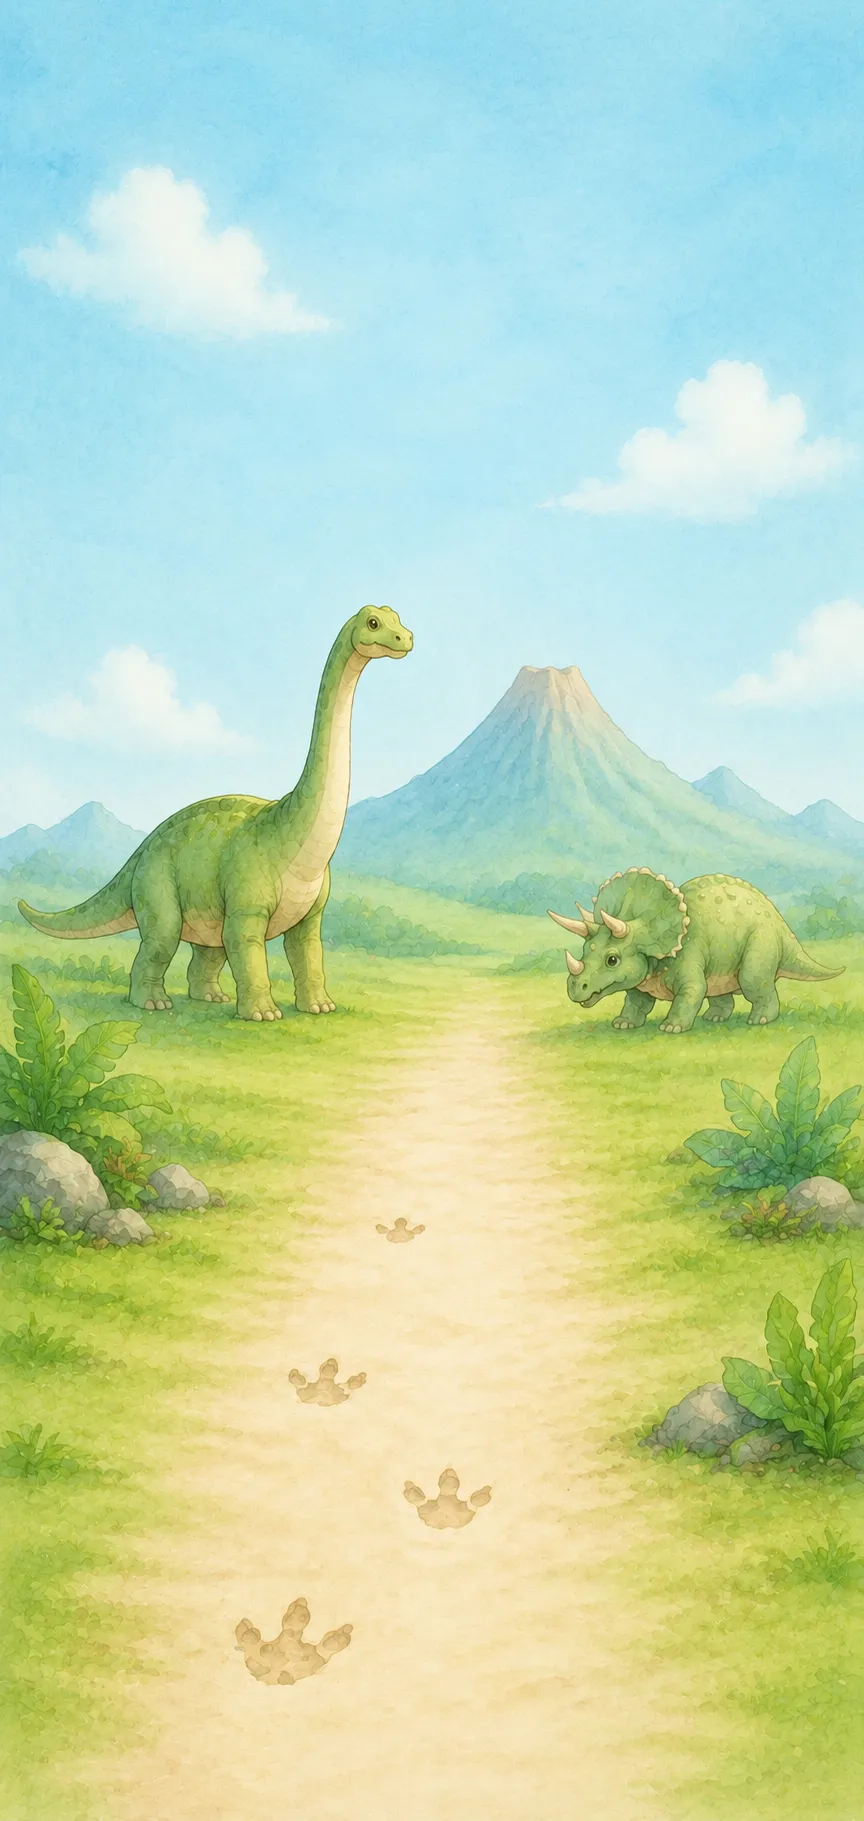
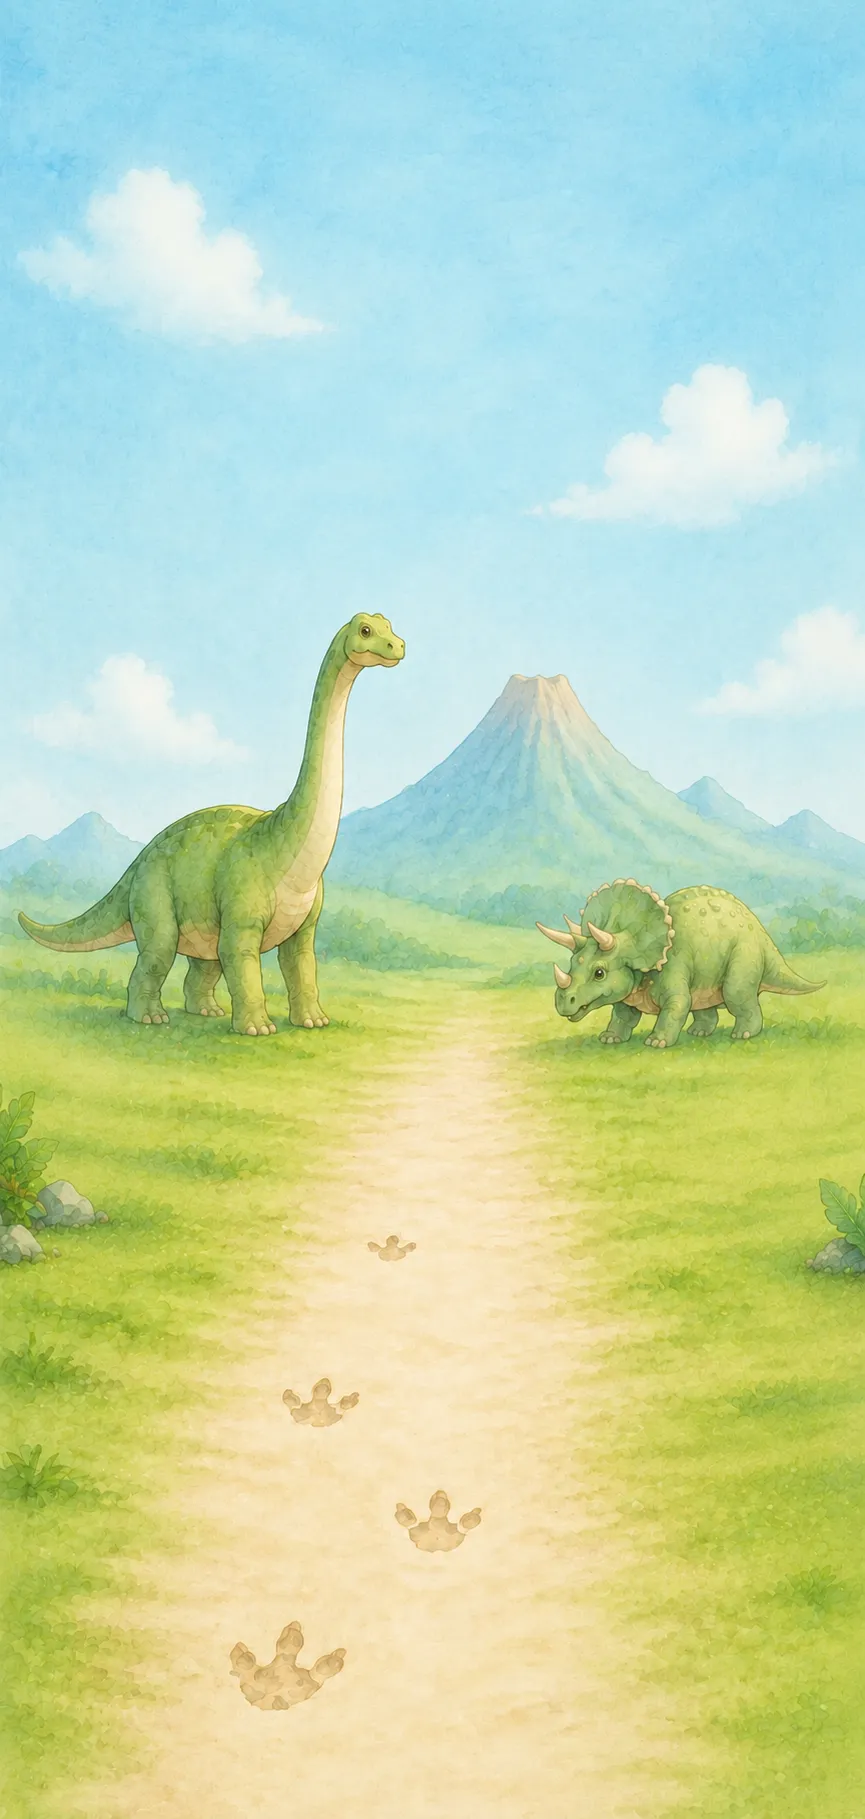
공룡 섬 원화 v2 로 교체
public/assets/stage-bg-dino.webp   webp q80 · 84KB (v1 95KB)
  art-src/bg-dino-v2-src.webp        webp q92 · 224KB

865×1819 = 1:2.10 — 무대 칸(1:2.09)과 거의 같아 잘림이 없다.
v1과 구도는 같고 앞쪽 바위·수풀이 빠져 모랫길이 트였다. 하늘·초원도 더 맑아졌다.
캐릭터가 서는 아래쪽이 비워져 인물이 배경에 묻히지 않는다.
톤 보정 없이 받은 그대로.

규칙 6 — 구버전 정리
· public/assets 는 같은 이름으로 덮어썼다
· art-src/bg-dino-v1-src.webp 삭제, README 의 v1 행도 v2 로 교체

장식(🥚 🍃 🦴)·tint(연한 하늘색 0.12)·darkStage(끔)는 그대로 둔다 —
구도와 하늘 밝기가 같아 다시 맞출 이유가 없다.

화면 확인 (390×844): 캐릭터가 트인 모랫길 위에 서고, 문구가 하늘 위에서
진한 색으로 잘 읽힌다. 빌드 통과.

Claude-Session: https://claude.ai/code/session_018maNuYqDfFyRSe9uKpZhPR

diff --git a/art-src/README.md b/art-src/README.md
@@ -229,4 +229,4 @@ getBoundingClientRect로 재서 정한다. 2026-08-05 점검에서 이 기준을
 | camp-bag-v2-src.webp | 캐릭터 탭 가방 카드 '빈 틀' v2 (1260×860 = 비율 1.465, 투명 = 표시 359px의 3.5배). 세로는 그대로 두고 가로만 넓힌 판 — 종이면이 넓어져 "👑 Lv.20 전설의 탐험가"가 한 줄에 들어간다. 안쪽 종이면 x 9.9~90.0% · y 24.1~86.7%(실측)에 레벨·진행막대·코인/XP를 앱이 그린다 — 값이 매일 바뀌므로 그림에 넣지 않는다. 좁은 v1(1000×862)은 규칙 6에 따라 삭제 | camp/bag.webp |
 | camp-{deco,item,box,pet,book,title,streak,history}-v2-src.webp | 캐릭터 탭 격자 아이콘 **8종 전부** (490×490 정사각 = 표시 138px의 3.5배, 받침 없이 캔버스를 꽉 채운 판). 앱이 정사각 칸에 objectFit:contain 으로 넣으므로 여덟 칸의 무게가 저절로 맞는다. 그루터기 붙은 v1은 규칙 6에 따라 삭제 | camp/st-*.webp |
 | bg-deepsea-v3-src.webp | 꾸미기 배경 '별빛 심해' 원화 v3 (868×1812 = 1:2.09 — 무대 칸 비율과 정확히 같아 한 픽셀도 안 잘린다). v2(887×1774)와 구도는 같고 선이 또렷해지고 고래·아치가 커진 판. 받은 그대로 톤 보정 없음. art-src 는 q92(381KB), 배포본은 q80(177KB) | stage-bg-deepsea.webp |
-| bg-dino-v1-src.webp | 꾸미기 배경 '공룡 섬' 원화 v1 (864×1821 = 1:2.11 — 무대 칸 1:2.09 와 거의 같다). 초원 + 화산 + 브라키오사우루스·트리케라톱스 + 발자국 난 모랫길. 받은 그대로 톤 보정 없음. art-src 는 q92(244KB), 배포본은 q80(95KB) | stage-bg-dino.webp |
+| bg-dino-v2-src.webp | 꾸미기 배경 '공룡 섬' 원화 v2 (865×1819 = 1:2.10 — 무대 칸 1:2.09 와 거의 같다). v1과 구도는 같고 앞쪽 바위·수풀이 빠져 모랫길이 트이고, 하늘과 초원이 더 밝고 맑아진 판. 받은 그대로 톤 보정 없음. art-src 는 q92(224KB), 배포본은 q80(84KB) | stage-bg-dino.webp |
